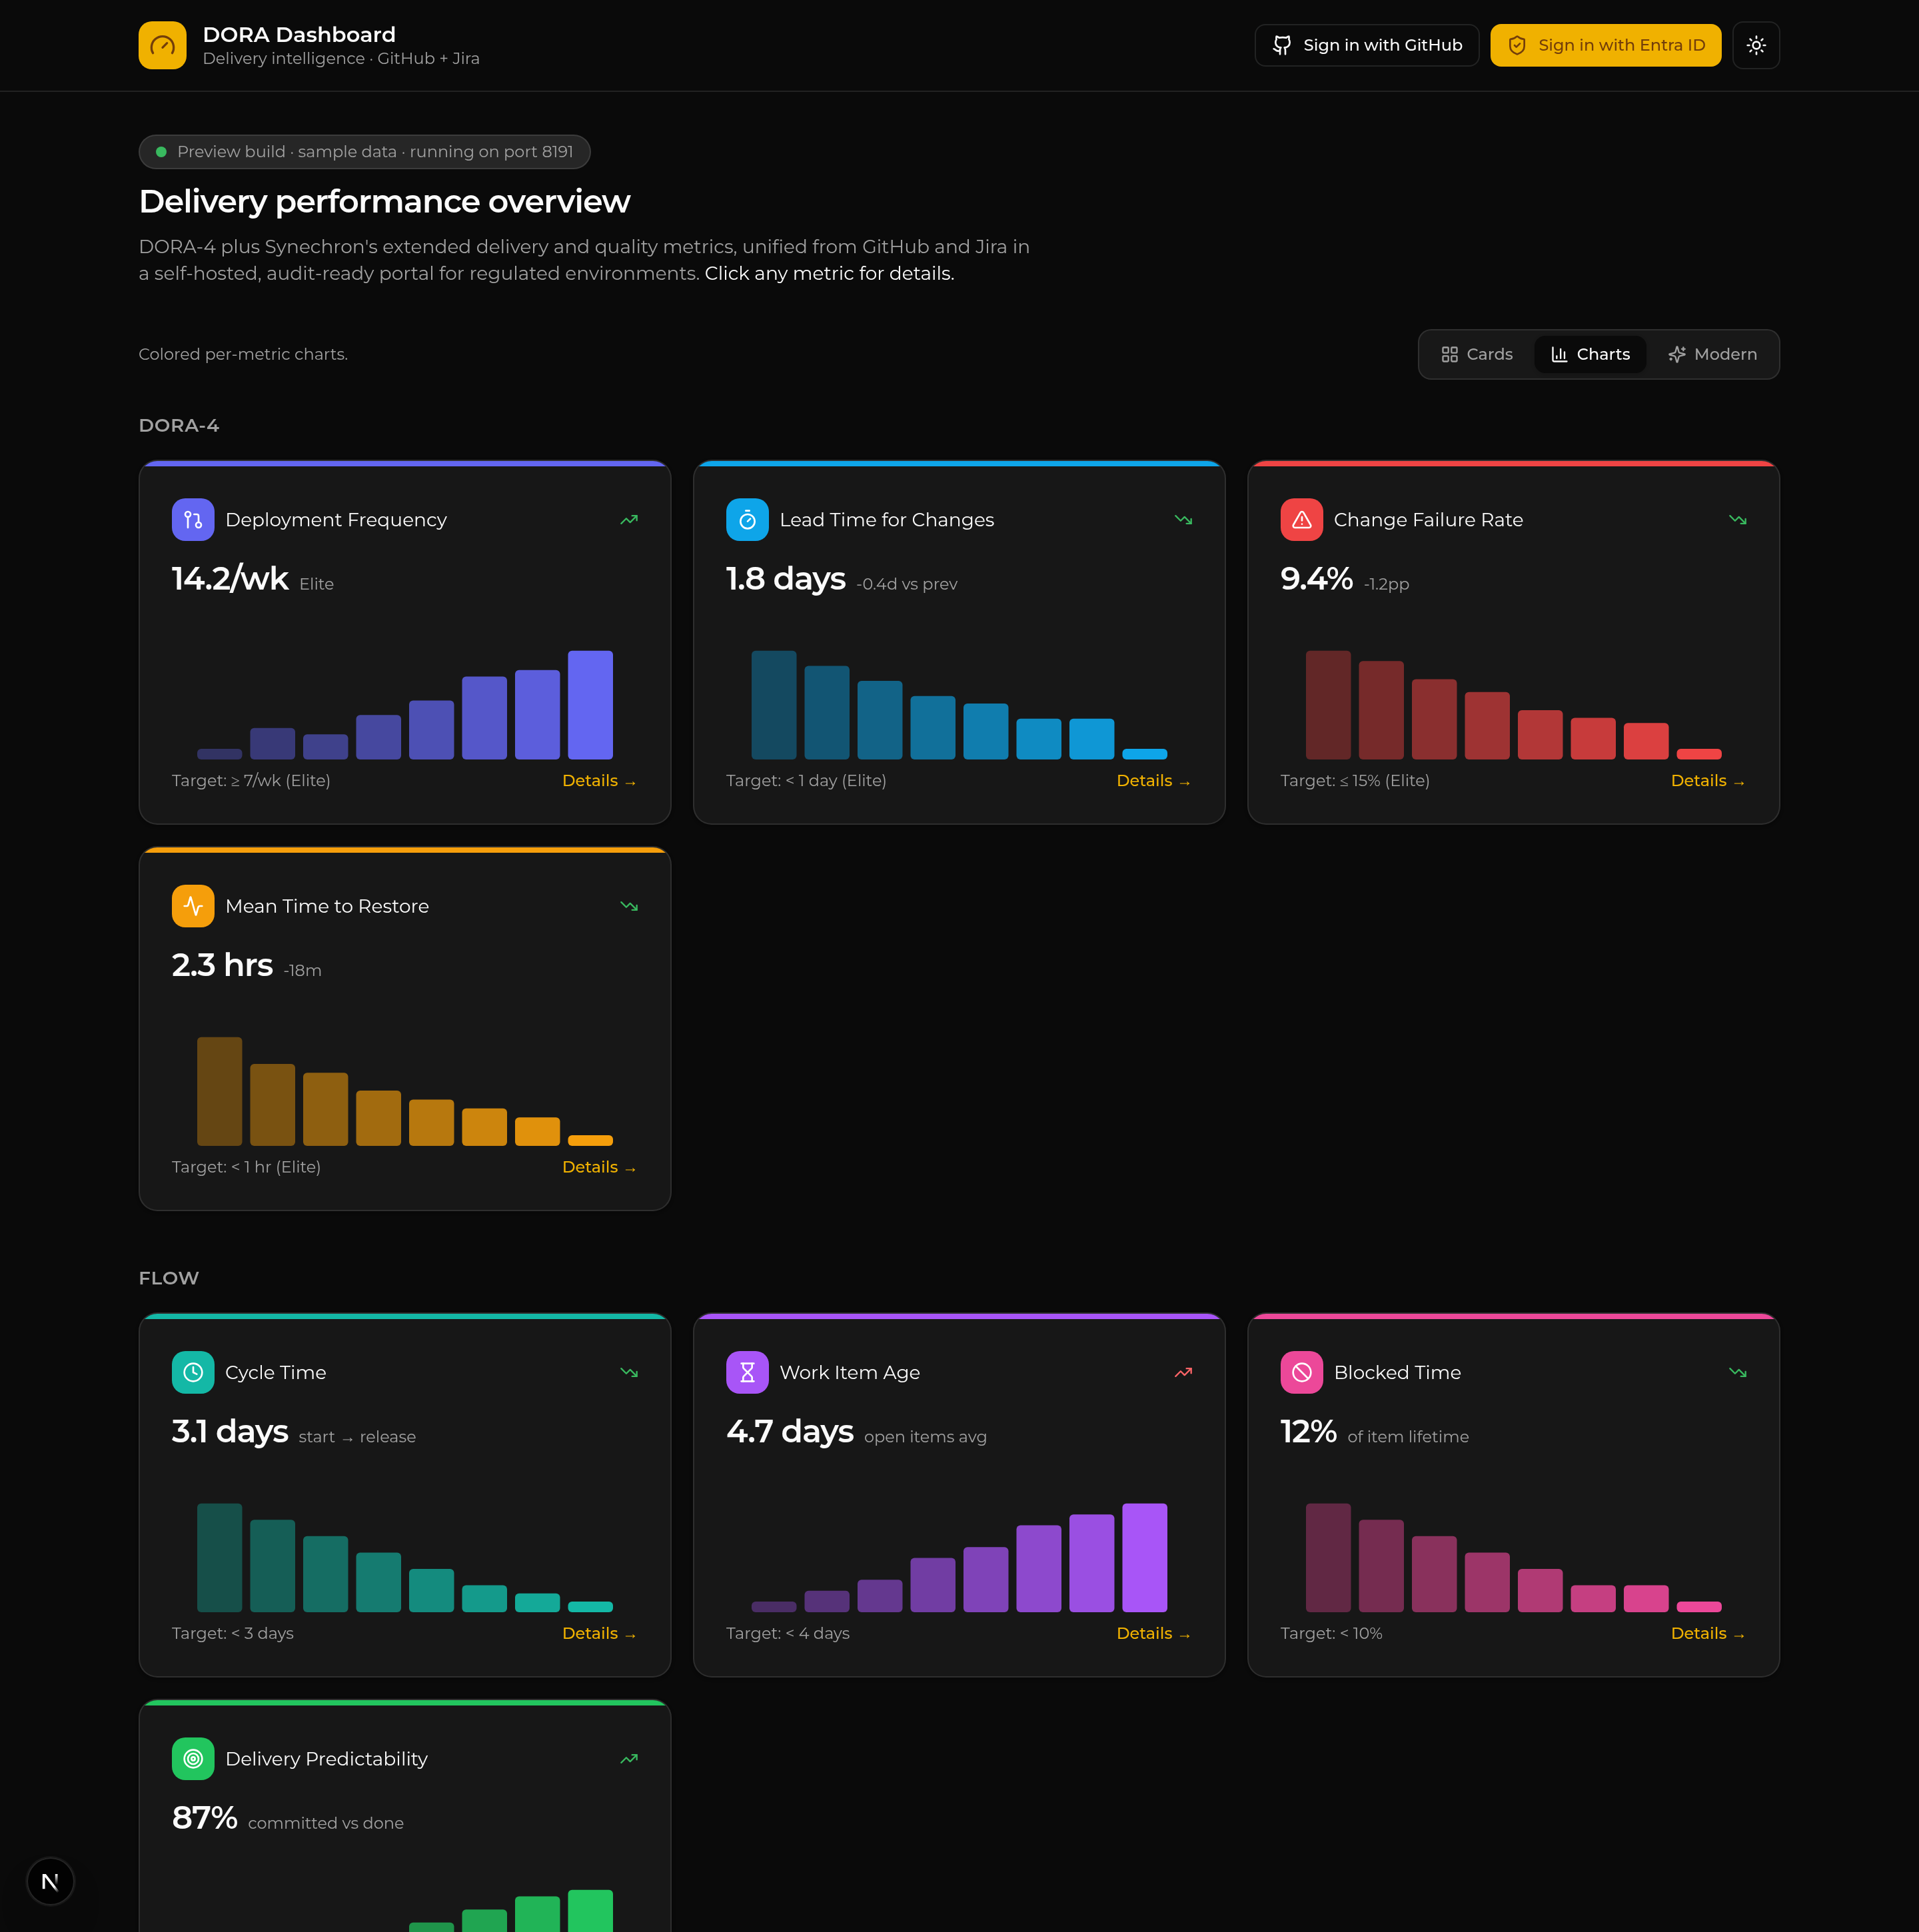
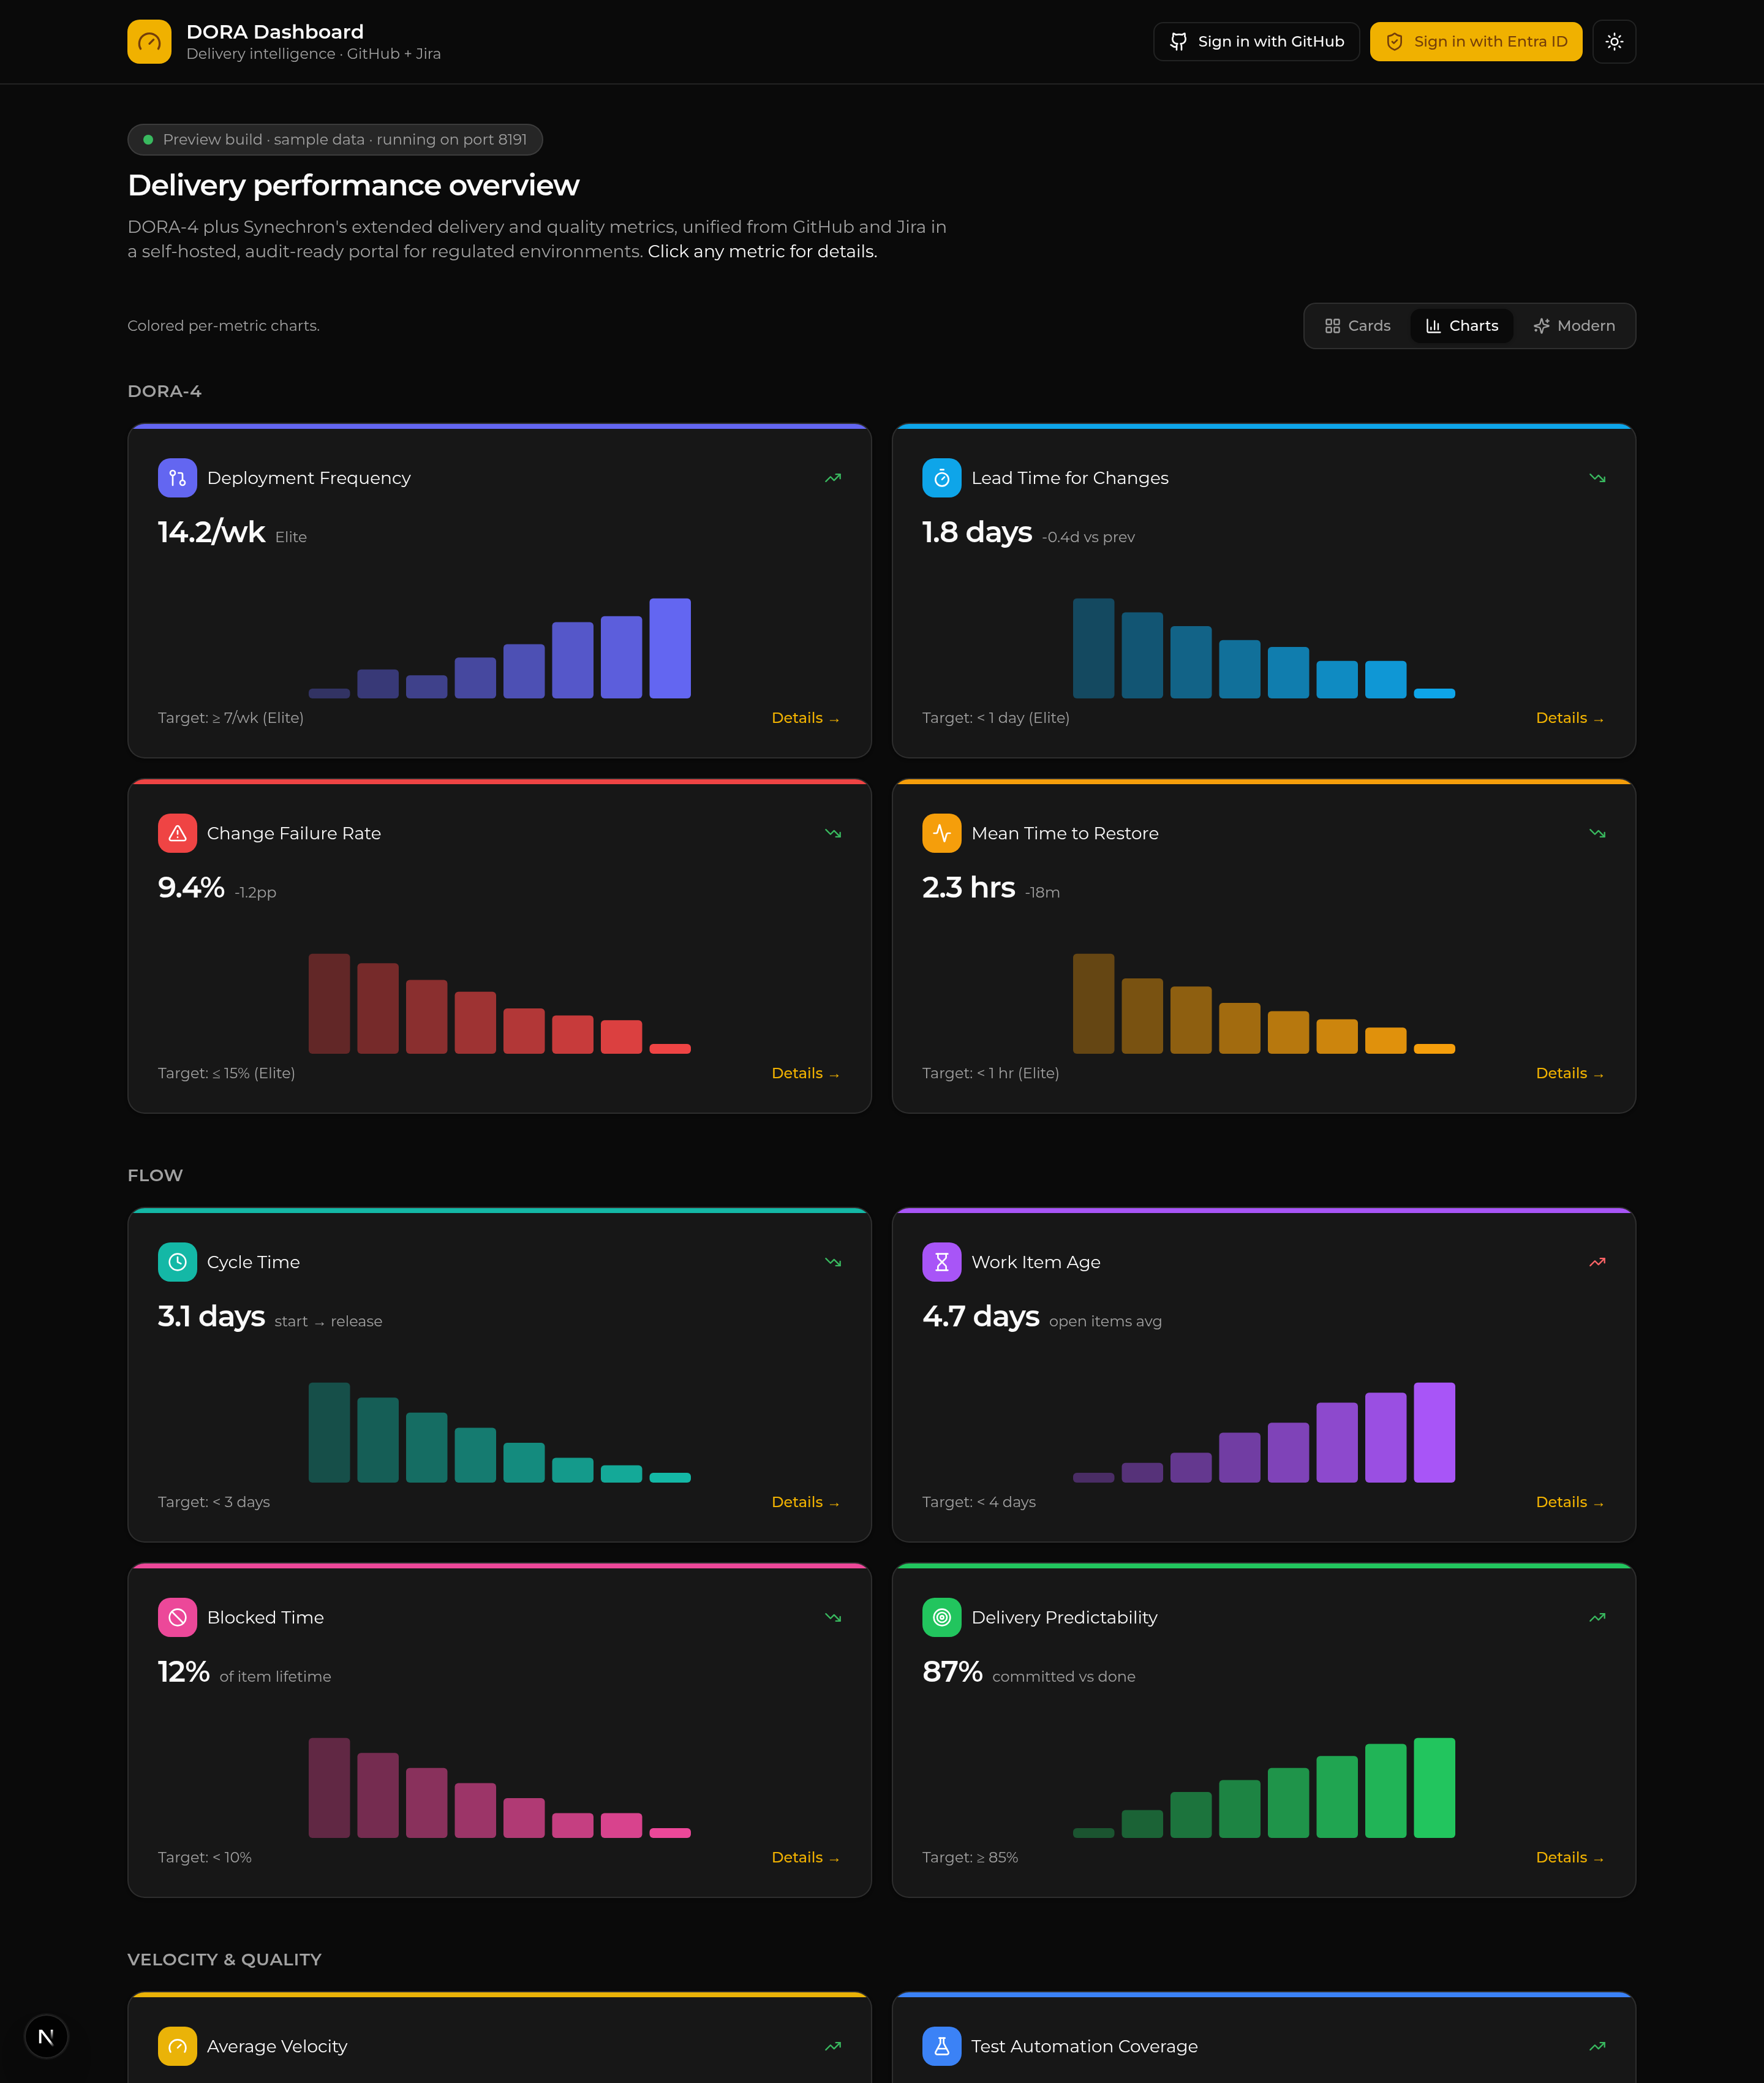
Responsive layout: 2-up metric grid, mobile & tablet support
- Modern & Charts views now use a 2-column grid (grid-cols-1 sm:grid-cols-2)
  so each 4-metric group tiles as a clean 2x2 — removes the empty space left
  by the old 3-column layout.
- Mobile/tablet: header hides sign-in labels on small screens, switcher row
  wraps, page padding tightens; verified at 390 / 820 / 1440 px.
- Regenerated Modern & Charts showcase screenshots to match.

Part of #12 (dashboard UI). Co-Authored-By: Claude Opus 4.8 (1M context) <[email redacted]>
Claude-Session: https://claude.ai/code/session_016c6iwucazPfnNoaVxqsJpy

diff --git a/app/page.tsx b/app/page.tsx
@@ -7,7 +7,7 @@ export default function Home() {
   return (
     <div className="min-h-screen">
       <header className="sticky top-0 z-10 border-b border-border bg-background/80 backdrop-blur">
-        <div className="mx-auto flex max-w-7xl items-center justify-between px-6 py-4">
+        <div className="mx-auto flex max-w-7xl items-center justify-between px-4 py-4 sm:px-6">
           <div className="flex items-center gap-3">
             <div className="flex size-9 items-center justify-center rounded-lg bg-primary text-primary-foreground">
               <Gauge className="size-5" />
@@ -20,18 +20,20 @@ export default function Home() {
             </div>
           </div>
           <div className="flex items-center gap-2">
-            <Button variant="outline" size="sm">
+            <Button variant="outline" size="sm" className="hidden md:inline-flex">
               <Github className="size-4" /> Sign in with GitHub
             </Button>
-            <Button size="sm">
-              <ShieldCheck className="size-4" /> Sign in with Entra ID
+            <Button size="sm" className="hidden sm:inline-flex">
+              <ShieldCheck className="size-4" />
+              <span className="hidden md:inline">Sign in with Entra ID</span>
+              <span className="md:hidden">Sign in</span>
             </Button>
             <ThemeToggle />
           </div>
         </div>
       </header>
 
-      <main className="mx-auto max-w-7xl px-6 py-8">
+      <main className="mx-auto max-w-7xl px-4 py-8 sm:px-6">
         <div className="mb-8 flex flex-col gap-2">
           <div className="inline-flex w-fit items-center gap-2 rounded-full border border-border bg-muted px-3 py-1 text-xs text-muted-foreground">
             <span className="size-2 rounded-full bg-[color:var(--success)]" />

diff --git a/components/metric-explorer.tsx b/components/metric-explorer.tsx
@@ -105,7 +105,7 @@ function ChartsView({ onOpen }: { onOpen: (id: string) => void }) {
       {groups.map((group) => (
         <section key={group} className="mb-10">
           <GroupHeading group={group} />
-          <div className="grid grid-cols-1 gap-4 sm:grid-cols-2 lg:grid-cols-3">
+          <div className="grid grid-cols-1 gap-4 sm:grid-cols-2">
             {metrics
               .filter((m) => m.group === group)
               .map((m) => {
@@ -159,7 +159,7 @@ function ModernView({ onOpen }: { onOpen: (id: string) => void }) {
       {groups.map((group) => (
         <section key={group} className="mb-10">
           <GroupHeading group={group} />
-          <div className="grid grid-cols-1 gap-5 sm:grid-cols-2 lg:grid-cols-3">
+          <div className="grid grid-cols-1 gap-5 sm:grid-cols-2">
             {metrics
               .filter((m) => m.group === group)
               .map((m, i) => {
@@ -275,7 +275,7 @@ export function MetricExplorer() {
 
   return (
     <>
-      <div className="mb-6 flex items-center justify-between gap-4">
+      <div className="mb-6 flex flex-col gap-3 sm:flex-row sm:items-center sm:justify-between">
         <p className="text-xs text-muted-foreground">
           {view === "cards" && "Compact cards — click any metric for details."}
           {view === "charts" && "Colored per-metric charts."}